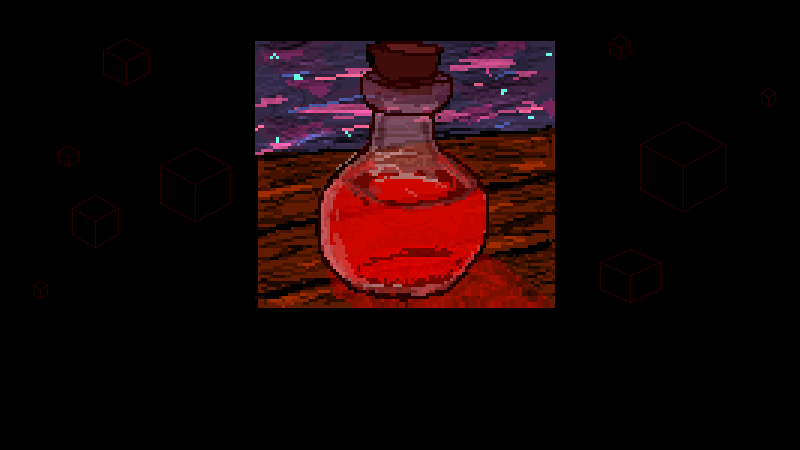
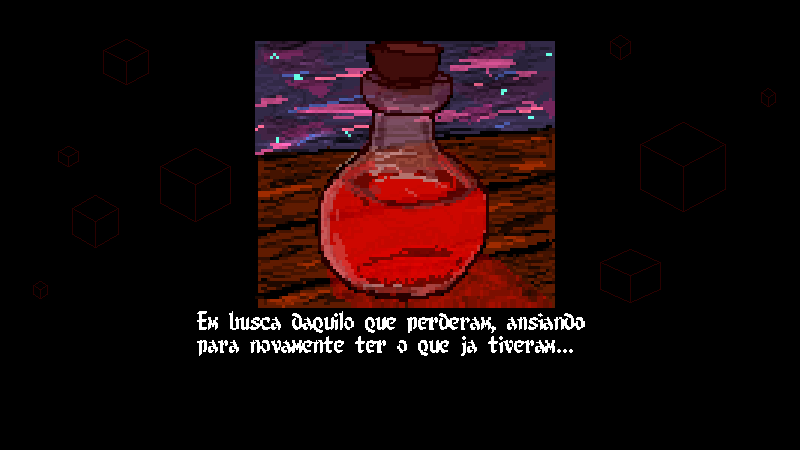
texto nas cutscenes

Changed region(s): [[0.25, 0.6844, 0.75, 0.8089]]

diff --git a/cliente/js/cutscene.js b/cliente/js/cutscene.js
@@ -11,16 +11,6 @@ export default class Cutscene extends Phaser.Scene {
   }
 
   create() {
-    const textTest = this.add.text(
-      400,
-      375,
-      'esse texto não existe',
-      {
-        fontFamily: 'PressStart2P',
-        fontSize: '35px',
-        fill: 'white'
-      }).setOrigin(0.5, 0.5)
-    
     // Adicione as imagens e defina a visibilidade inicial
     const submundoImage = this.add.image(400, 225, 'submundo').setAlpha(0);
     const frascoImage = this.add.image(400, 225, 'frasco').setAlpha(0);
